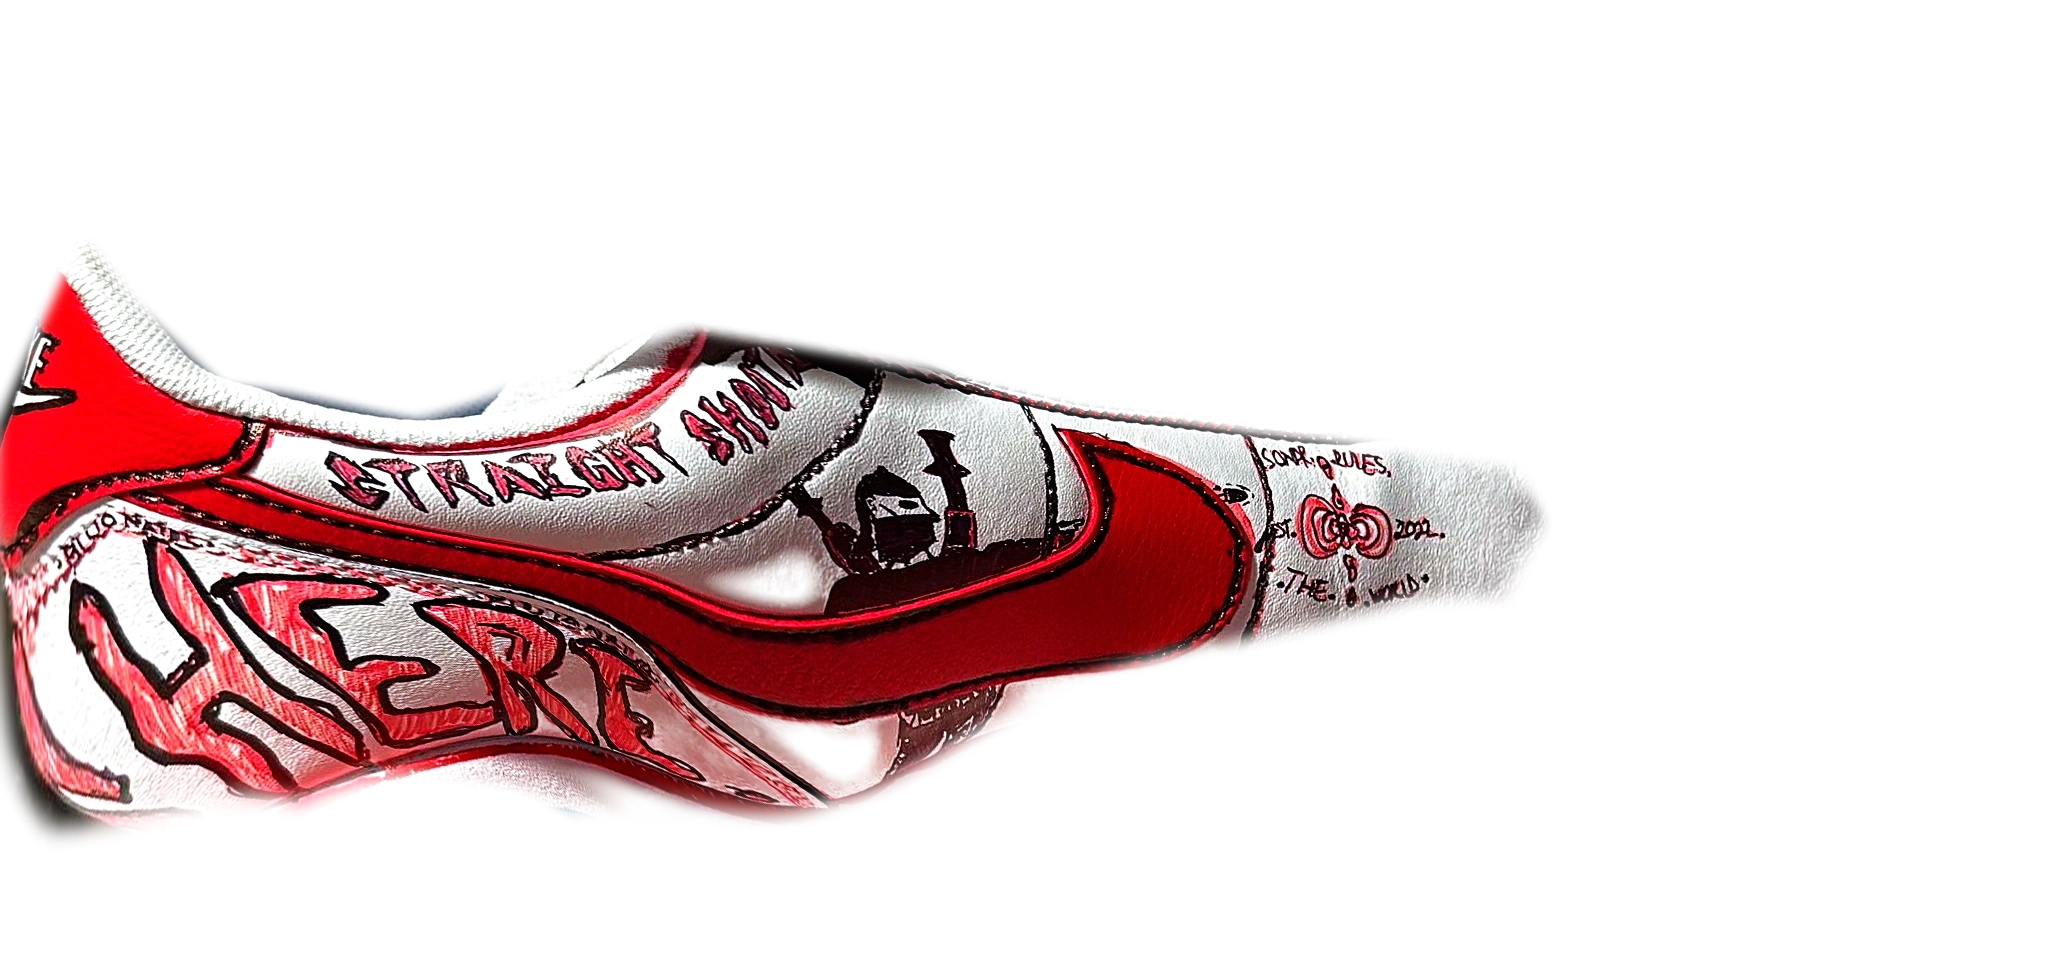
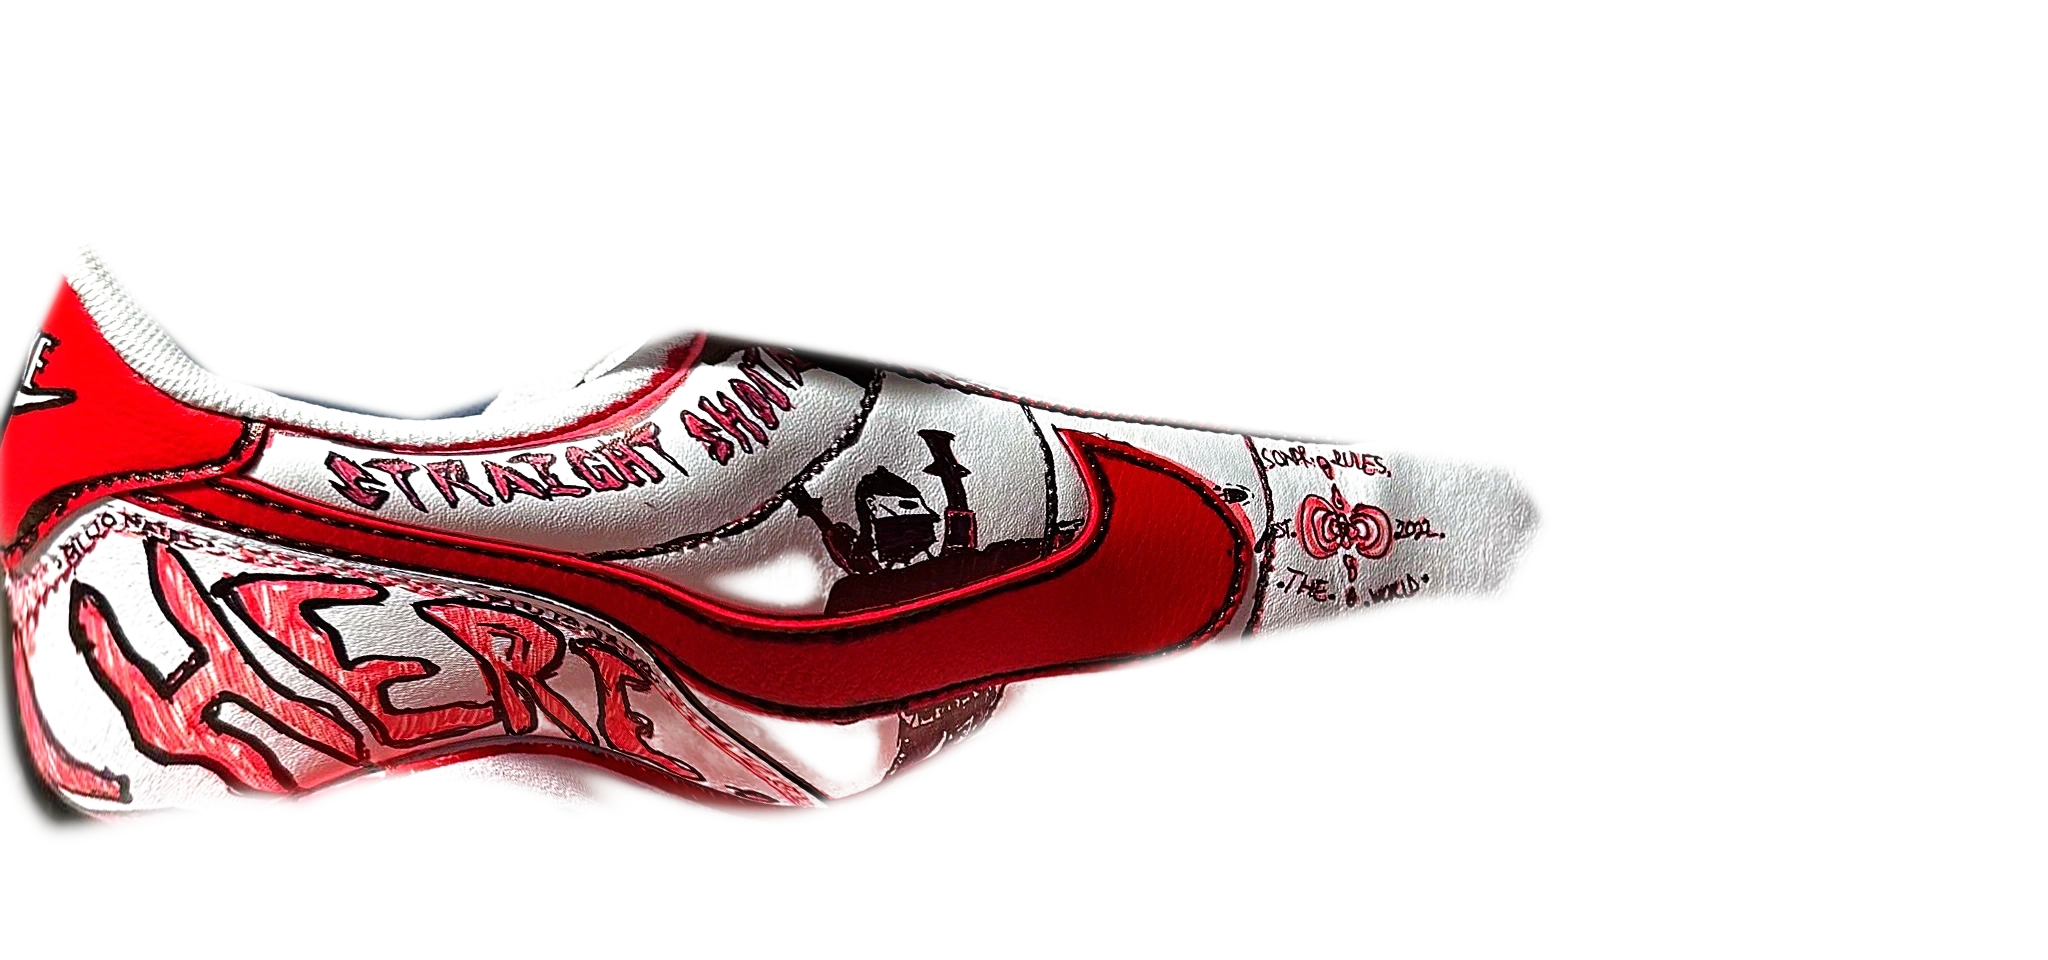
Collabs: toe photo neutral-lit, kept off the sole edge
Claude-Session: https://claude.ai/code/session_0114D3hwBVCmsXTQfgBtgPvQ

diff --git a/site/public/collabs/viewer.js b/site/public/collabs/viewer.js
@@ -4238,6 +4238,7 @@ float seamY(float x) {
   vec4 side = mix(aM, aP, smoothstep(-0.2, 0.2, N.z));
   float above = smoothstep(-0.004, 0.008, yab);
   float a = side.a * (1.0 - smoothstep(0.75, 0.95, abs(N.y))) * above;
+  a *= mix(1.0, smoothstep(0.3, 0.6, abs(N.z)), 1.0 - smoothstep(-0.8, -0.65, P.x)); // side photos don't wrap round the toe tip
   vec4 h = texture2D(uHeel, vec2(0.5 - P.z / 0.62, clamp(yab / 0.56, 0.0, 1.0)));
   float wh = h.a * smoothstep(0.45, 0.8, N.x) * smoothstep(0.72, 0.86, P.x) * above;
   // front: Hardin's front photo projected from the camera it was taken with (toe, vamp, signature, S-O-N-D-R, date)
@@ -4245,7 +4246,7 @@ float seamY(float x) {
   vec2 tuv = q.xy / q.z;
   vec4 t = texture2D(uToe, clamp(tuv, 0.0, 1.0));
   float inb = step(0.0, q.z) * step(0.0, tuv.x) * step(tuv.x, 1.0) * step(0.0, tuv.y) * step(tuv.y, 1.0);
-  float wt = t.a * inb * smoothstep(0.45, 0.75, dot(N, normalize(uTCam - P))) * (1.0 - smoothstep(-0.5, -0.4, P.x)) * above;
+  float wt = smoothstep(0.035, 0.06, yab) * t.a * inb * smoothstep(0.55, 0.8, dot(N, normalize(uTCam - P))) * (1.0 - smoothstep(-0.5, -0.4, P.x)) * above;
   vec3 c = diffuseColor.rgb;
   c = mix(c, side.rgb, a);
   c = mix(c, h.rgb, wh);
